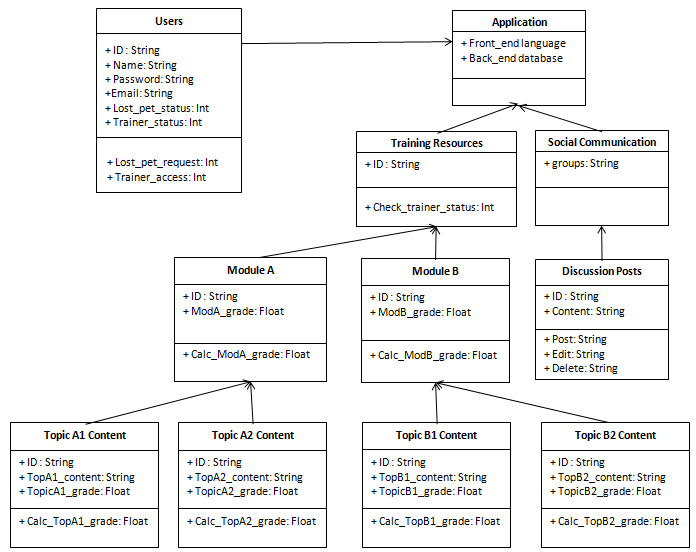
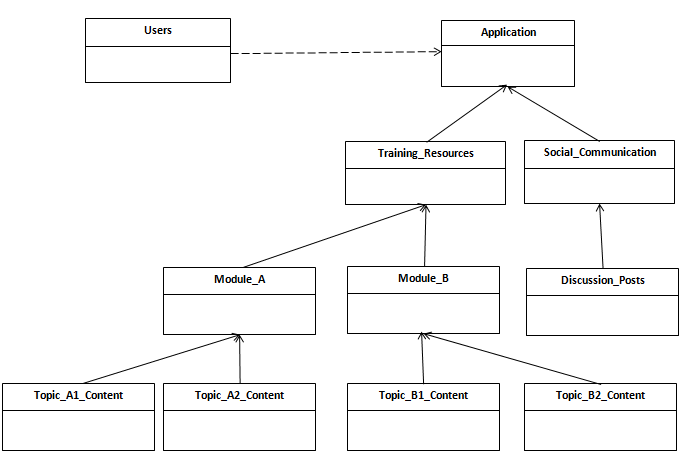
Added Behavior_Diagram.PNG

diff --git a/README.md b/README.md
@@ -43,21 +43,21 @@ The DHP network includes an online application that can be used by two types of 
 
 ## Dogs Helping Pets Network Model
 
-(remove: add a high-level overview of your model, the part below should link to the model directory markdown files)
-(remove: Look at the [**Object Diagram**](model/object_diagram.md) for how to structure this part of Part 2 for each diagram. Only the Object diagram has the template, the rest are blank. )
+The links below will direct to pages that describe the DHP Network model at different levels of detail. These diagrams are used as a guide to decribe the elements in the application how they function together.
 
-* [**Object Diagram**](model/object_diagram.md) - provides the high level overview of components
-* [**Class Diagram**](model/class_diagram.md) - provides details of (what are you providing details of)
-* [**Behavior Diagram**](model/behavior_diagram.md) - provides details of (what are you providing details of)
-* [**Agent / User case** (if appropriate)](model/agent_usecase_diagram.md) - provides details of (what are you providing details of)
+* [**Object Diagram**](model/object_diagram.md) - provides the high level overview of components in the DHP Network
+* [**Class Diagram**](model/class_diagram.md) - provides details of objects in the system and their attributes
+* [**Behavior Diagram**](model/behavior_diagram.md) - provides details of how objects in the system interact
 
-## Smart City (My Problem) Simulation
+## Dogs Helping Pets Network Simulation
 
 (remove: for part 3 add two to three sentences here and link the [**(your own name)**](model/README.md) file in the analysis folder - which describe how you would simulate this - type of simulation, rough details -inputs, outputs - how it will help you analyze your experimental hypothesis, or nullify your null hypothesis.)
+It 
 
+## Dogs Helping Pets Network Framework
+An initial Python program has been developed as a foundation for the DHP Network application. The program was written following the Object, Class and Behavior Diagrams mentioned above.
 
-## Smart City (My Problem) Model
-[**Code template**](code/README.md) - Starting coding framework for the (insert your exact problem here.)
+[**DHP Network Code**](code/README.md)
 
 ## **P**ortable **O**rganic **T**rouble-free **S**elf-watering System (**POTS**) Model
 Here [**we provide an overview**](code/POTS_system/README.md) of the **P**ortable **O**rganic **T**rouble-free **S**elf-watering System (**POTS**) Model and provide a source code template.

diff --git a/model/object_diagram.md b/model/object_diagram.md
@@ -1,5 +1,10 @@
 ## Dogs Helping Pets Network Model - Object Diagram
 
-(remove: provide a description of the current model you describe below)
+The main blocks of the system include users and the application. Users can have different attributes and functions and will be discussed further in the Class Diagram. The Application is made up of two parts
+
+1. Training_Resource
+2. Social_Communication
+
+The blocks mentioned above directly tie to the goals of the DHP Network described here (README.md).
 
 ![Object Diagram](../images/Objects_Diagram.PNG)
